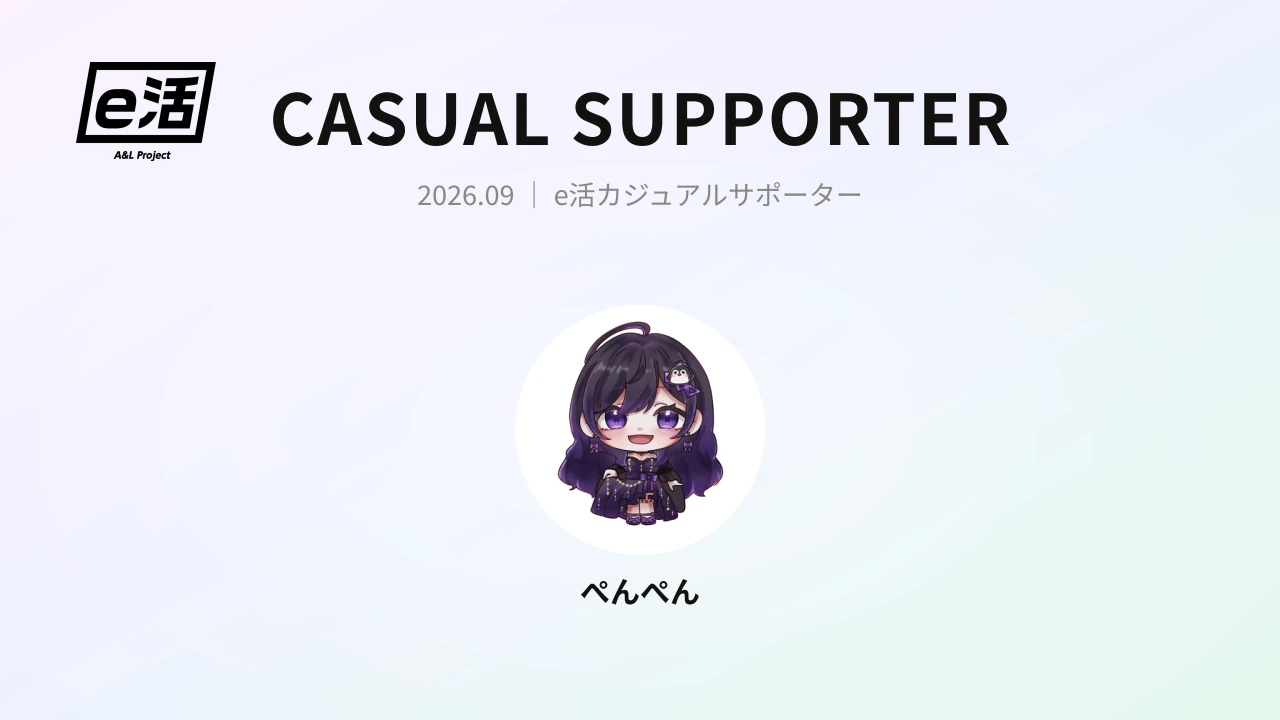
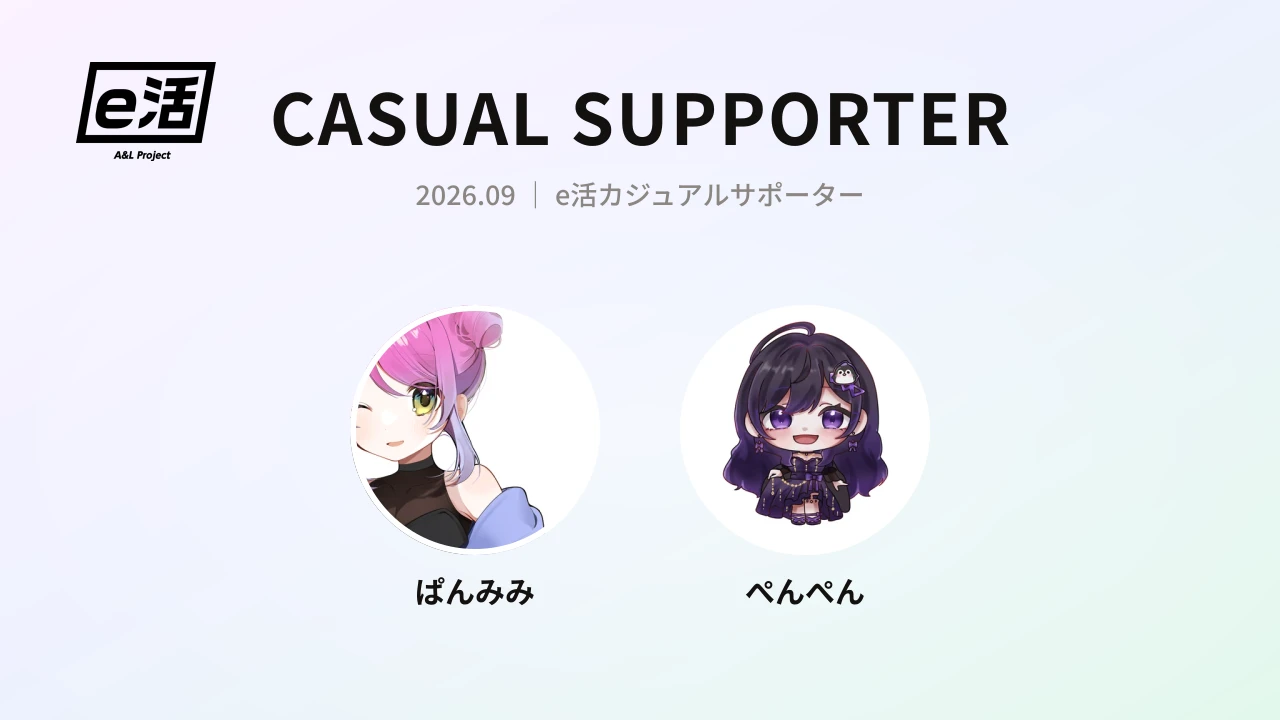
サポーター紹介の記事を1本にまとめる（ぱんみみ・ぺんぺん → 9/28）
9/24 の記事は 9/28 へ移るだけのページに。一覧のカードとXの承認待ちも1本に。

diff --git a/news/supporter-2026-09-24.html b/news/supporter-2026-09-24.html
@@ -2,79 +2,12 @@
 <html lang="ja">
 <head>
   <meta charset="UTF-8" />
-  <meta name="viewport" content="width=device-width, initial-scale=1.0" />
-
-  <title>新しいe活カジュアルサポーターのご紹介（2026.09.24） ｜ e活</title>
-  <meta name="description" content="e活が協賛する大会を、カジュアルに応援してくれる「e活カジュアルサポーター」に新しい仲間が加わりました。" />
-
-  <meta property="og:type" content="article" />
-  <meta property="og:title" content="新しいe活カジュアルサポーターのご紹介（2026.09.24） ｜ e活" />
-  <meta property="og:description" content="e活が協賛する大会を、カジュアルに応援してくれる「e活カジュアルサポーター」に新しい仲間が加わりました。" />
-  <meta property="og:image" content="https://ekatsu-web.pages.dev/assets/img/news/supporter-2026-09-24.webp" />
-
-  <link rel="icon" type="image/png" sizes="32x32" href="/assets/img/favicon-32.png" />
-  <link rel="icon" type="image/png" sizes="192x192" href="/assets/img/favicon-192.png" />
-  <link rel="icon" type="image/png" sizes="512x512" href="/assets/img/favicon-512.png" />
-  <link rel="apple-touch-icon" sizes="180x180" href="/assets/img/favicon-180.png" />
-
-  <link rel="preconnect" href="https://fonts.googleapis.com" />
-  <link rel="preconnect" href="https://fonts.gstatic.com" crossorigin />
-  <link href="https://fonts.googleapis.com/css2?family=Noto+Sans+JP:wght@300;400;500;700&display=swap" rel="stylesheet" />
-
-  <link rel="stylesheet" href="../assets/css/styles.css" />
+  <meta name="robots" content="noindex" />
+  <meta http-equiv="refresh" content="0; url=supporter-2026-09-28.html" />
+  <link rel="canonical" href="https://ekatsu-web.pages.dev/news/supporter-2026-09-28" />
+  <title>新しいe活カジュアルサポーターのご紹介 ｜ e活</title>
 </head>
 <body>
-
-  <span class="side-rail side-rail--left">A&amp;L project 株式会社</span>
-  <span class="side-rail side-rail--right">eスポーツに社会的意義を</span>
-
-  <header class="site-header" id="top">
-    <nav class="nav">
-      <a href="../index.html#message">ご挨拶</a>
-      <a href="../works.html">協賛大会</a>
-      <a href="../reports.html">協賛レポート</a>
-      <a href="../sponsors.html">パートナー企業</a>
-      <a href="../vtuber.html">VTuber</a>
-      <a href="../news.html">お知らせ</a>
-      <a href="../index.html#company">会社情報</a>
-      <a href="../index.html#contact">お問い合わせ</a>
-    </nav>
-    <a href="../index.html" class="brand">
-      <img src="../assets/img/logo.webp" alt="e活 ロゴ" width="120" />
-    </a>
-  </header>
-
-  <main>
-    <article class="article">
-      <header class="article__head reveal">
-        <p class="eyebrow">news</p>
-        <time class="article__date" datetime="2026-09-24">2026.09.24</time>
-        <h1 class="article__title">新しいe活カジュアルサポーターのご紹介（2026.09.24）</h1>
-      </header>
-
-      <div class="article__body reveal">
-        <figure>
-          <img src="../assets/img/news/supporter-2026-09-24.webp" alt="新しいe活カジュアルサポーターのご紹介（2026.09.24）" width="1280" height="720" loading="lazy" />
-        </figure>
-        <p>e活が協賛する大会を、カジュアルに応援してくれる「e活カジュアルサポーター」に新しい仲間が加わりました。</p>
-        <ul>
-          <li><strong>ぱんみみ</strong>｜Call of Dutyを中心に、視聴者さんとコミュニケーションを取りながら楽しく配信して… Call Of Duty。 <a target="_blank" rel="noopener" href="https://x.com/pan_33_mimi">@pan_33_mimi</a></li>
-        </ul>
-        <p>プロフィールの詳細は <a href="../vtuber.html">VTuber一覧ページ</a> からご覧いただけます。応援よろしくお願いいたします！</p>
-        <p><strong>■ e活カジュアルサポーターを随時募集中です！</strong> e活では、共にコミュニティ大会を応援し、シーンを盛り上げてくださる配信者様を継続して募集しております。お気軽にお問い合わせください。</p>
-      </div>
-
-      <div class="article__nav reveal">
-        <a class="btn" href="../news.html">← お知らせ一覧へ戻る</a>
-      </div>
-    </article>
-  </main>
-
-  <footer class="site-footer">
-    <img src="../assets/img/logo.webp" alt="e活 ロゴ" width="90" class="site-footer__logo" />
-    <p class="site-footer__copy">&copy; A&amp;L project 株式会社</p>
-  </footer>
-
-  <script src="../assets/js/main.js"></script>
+  <p>この記事は <a href="supporter-2026-09-28.html">新しいe活カジュアルサポーターのご紹介（2026.09.28）</a> にまとめました。</p>
 </body>
 </html>

diff --git a/tools/_merge_supporter_1003.js b/tools/_merge_supporter_1003.js
@@ -1,0 +1,78 @@
+// ぱんみみさん（9/24の記事）とぺんぺんさん（9/28の記事）を1本の記事にまとめる（2026-10-03 依田「2人とも同じ記事で紹介したいからくっつけて」）
+//   ・残すのは supporter-2026-09-28（2人を載せ直し、見出し画像も2人で作り直す）
+//   ・supporter-2026-09-24 は、開いたら 9/28 の記事へ移るだけのページにする（もう配ったリンクが死なないように）
+//   ・一覧（news.html・index.html）の 9/24 のカードを外す。Xの承認待ちも 9/28 の1本に2人で入れ直す
+//   使い方: node _merge_supporter_1003.js
+const fs = require("fs");
+const path = require("path");
+const ROOT = path.join(__dirname, "..");
+const { publishSupporterNews } = require("./supporter-news");
+
+const people = [
+  { slug: "vt18", name: "ぱんみみ", displayName: "ぱんみみ", bio: "Call of Dutyを中心に、視聴者さんとコミュニケーションを取りながら楽しく配信して… Call Of Duty。", xHandle: "@pan_33_mimi" },
+  { slug: "vt19", name: "ぺんぺん", displayName: "ぺんぺん", bio: "方言をうまく利用して遊びに来てくれた人はみんな友達をテーマに配信しています。 VALORANT / APEX Legends。", xHandle: "@Nissy14843663" },
+];
+const OLD = "supporter-2026-09-24", KEEP = "supporter-2026-09-28";
+
+(async () => {
+  // 1) 9/28 の記事と見出し画像を2人で作り直す（カードと承認待ちは「もうある」で飛ばされる）
+  await publishSupporterNews(people, "2026-09-28");
+
+  // 2) 9/24 の記事は 9/28 へ移るだけのページに
+  fs.writeFileSync(path.join(ROOT, "news", OLD + ".html"), `<!DOCTYPE html>
+<html lang="ja">
+<head>
+  <meta charset="UTF-8" />
+  <meta name="robots" content="noindex" />
+  <meta http-equiv="refresh" content="0; url=${KEEP}.html" />
+  <link rel="canonical" href="https://ekatsu-web.pages.dev/news/${KEEP}" />
+  <title>新しいe活カジュアルサポーターのご紹介 ｜ e活</title>
+</head>
+<body>
+  <p>この記事は <a href="${KEEP}.html">新しいe活カジュアルサポーターのご紹介（2026.09.28）</a> にまとめました。</p>
+</body>
+</html>
+`);
+
+  // 3) 一覧から 9/24 のカードを外す（<a class="news-card…href="news/supporter-2026-09-24.html"> 〜 </a>）
+  for (const f of ["news.html", "index.html"]) {
+    const p = path.join(ROOT, f);
+    let s = fs.readFileSync(p, "utf8");
+    const re = new RegExp('[ \\t]*<a class="news-card[^>]*href="news/' + OLD + '\\.html">[\\s\\S]*?</a>\\r?\\n');
+    if (!re.test(s)) { console.log(`  ${f}: 9/24 のカードが見つからない（もう外れている）`); continue; }
+    s = s.replace(re, "");
+    fs.writeFileSync(p, s);
+    console.log(`  ${f}: 9/24 のカードを外した`);
+  }
+  // トップ（index.html）はお知らせ2件。1件になったら news.html の次の1件を写す
+  {
+    const ip = path.join(ROOT, "index.html");
+    let idx = fs.readFileSync(ip, "utf8");
+    const block = idx.slice(idx.indexOf("<!-- NEWS:START -->"), idx.indexOf("<!-- NEWS:END -->"));
+    const n = (block.match(/<a class="news-card/g) || []).length;
+    if (n < 2) {
+      const news = fs.readFileSync(path.join(ROOT, "news.html"), "utf8");
+      const cards = news.slice(news.indexOf("<!-- NEWS:START -->"), news.indexOf("<!-- NEWS:END -->")).match(/[ \t]*<a class="news-card[\s\S]*?<\/a>\r?\n/g) || [];
+      const next = cards.find(c => !block.includes((c.match(/href="([^"]+)"/) || [])[1]));
+      if (next) {
+        const card = next.replace(' reveal"', '"').replace(/ id="n-[^"]*"/, "");
+        idx = idx.replace("      <!-- NEWS:END -->", card + "      <!-- NEWS:END -->");
+        fs.writeFileSync(ip, idx);
+        console.log("  index.html: 次のお知らせを1件足した（トップは2件）");
+      }
+    }
+  }
+
+  // 4) Xの承認待ち：9/24 を消し、9/28 に2人を入れる
+  const pp = path.join(__dirname, "supporter_news_pending.json");
+  const pend = JSON.parse(fs.readFileSync(pp, "utf8"));
+  pend.articles = pend.articles.filter(a => a.slug !== OLD);
+  const keep = pend.articles.find(a => a.slug === KEEP);
+  if (keep) keep.people = people.map(p => ({ name: p.name, display: p.displayName, x: p.xHandle }));
+  fs.writeFileSync(pp, JSON.stringify(pend, null, 2) + "\n");
+  console.log("  承認待ち: 9/28 の1本に2人で入れ直した");
+
+  // 5) 9/24 の見出し画像は使わなくなるので消す
+  const img = path.join(ROOT, "assets", "img", "news", OLD + ".webp");
+  if (fs.existsSync(img)) { fs.unlinkSync(img); console.log("  9/24 の見出し画像を消した"); }
+})().catch(e => { console.error("ERROR:", e.message); process.exit(1); });

diff --git a/news/supporter-2026-09-28.html b/news/supporter-2026-09-28.html
@@ -5,11 +5,11 @@
   <meta name="viewport" content="width=device-width, initial-scale=1.0" />
 
   <title>新しいe活カジュアルサポーターのご紹介（2026.09.28） ｜ e活</title>
-  <meta name="description" content="e活が協賛する大会を、カジュアルに応援してくれる「e活カジュアルサポーター」に新しい仲間が加わりました。" />
+  <meta name="description" content="e活が協賛する大会を、カジュアルに応援してくれる「e活カジュアルサポーター」に、新しく2名の仲間が加わりました。" />
 
   <meta property="og:type" content="article" />
   <meta property="og:title" content="新しいe活カジュアルサポーターのご紹介（2026.09.28） ｜ e活" />
-  <meta property="og:description" content="e活が協賛する大会を、カジュアルに応援してくれる「e活カジュアルサポーター」に新しい仲間が加わりました。" />
+  <meta property="og:description" content="e活が協賛する大会を、カジュアルに応援してくれる「e活カジュアルサポーター」に、新しく2名の仲間が加わりました。" />
   <meta property="og:image" content="https://ekatsu-web.pages.dev/assets/img/news/supporter-2026-09-28.webp" />
 
   <link rel="icon" type="image/png" sizes="32x32" href="/assets/img/favicon-32.png" />
@@ -56,8 +56,9 @@
         <figure>
           <img src="../assets/img/news/supporter-2026-09-28.webp" alt="新しいe活カジュアルサポーターのご紹介（2026.09.28）" width="1280" height="720" loading="lazy" />
         </figure>
-        <p>e活が協賛する大会を、カジュアルに応援してくれる「e活カジュアルサポーター」に新しい仲間が加わりました。</p>
+        <p>e活が協賛する大会を、カジュアルに応援してくれる「e活カジュアルサポーター」に、新しく2名の仲間が加わりました。</p>
         <ul>
+          <li><strong>ぱんみみ</strong>｜Call of Dutyを中心に、視聴者さんとコミュニケーションを取りながら楽しく配信して… Call Of Duty。 <a target="_blank" rel="noopener" href="https://x.com/pan_33_mimi">@pan_33_mimi</a></li>
           <li><strong>ぺんぺん</strong>｜方言をうまく利用して遊びに来てくれた人はみんな友達をテーマに配信しています。 VALORANT / APEX Legends。 <a target="_blank" rel="noopener" href="https://x.com/Nissy14843663">@Nissy14843663</a></li>
         </ul>
         <p>プロフィールの詳細は <a href="../vtuber.html">VTuber一覧ページ</a> からご覧いただけます。応援よろしくお願いいたします！</p>

diff --git a/index.html b/index.html
@@ -261,11 +261,11 @@
             <p class="news-card__title">新しいe活カジュアルサポーターのご紹介（2026.09.28）</p>
           </div>
         </a>
-        <a class="news-card" href="news/supporter-2026-09-24.html">
-          <img class="news-card__thumb" src="assets/img/news/supporter-2026-09-24.webp" alt="" width="140" height="88" loading="lazy" />
+        <a class="news-card" href="news/supporter-2026-09-13.html">
+          <img class="news-card__thumb" src="assets/img/news/supporter-2026-09-13.webp" alt="" width="140" height="88" loading="lazy" />
           <div class="news-card__body">
-            <time datetime="2026-09-24">2026.09.24</time>
-            <p class="news-card__title">新しいe活カジュアルサポーターのご紹介（2026.09.24）</p>
+            <time datetime="2026-09-13">2026.09.13</time>
+            <p class="news-card__title">新しいe活カジュアルサポーターのご紹介（2026.09.13）</p>
           </div>
         </a>
       <!-- NEWS:END -->

diff --git a/news.html b/news.html
@@ -70,13 +70,6 @@
             <p class="news-card__title">新しいe活カジュアルサポーターのご紹介（2026.09.28）</p>
           </div>
         </a>
-        <a class="news-card reveal" id="n-supporter-2026-09-24" href="news/supporter-2026-09-24.html">
-          <img class="news-card__thumb" src="assets/img/news/supporter-2026-09-24.webp" alt="" width="140" height="88" loading="lazy" />
-          <div class="news-card__body">
-            <time datetime="2026-09-24">2026.09.24</time>
-            <p class="news-card__title">新しいe活カジュアルサポーターのご紹介（2026.09.24）</p>
-          </div>
-        </a>
         <a class="news-card reveal" id="n-supporter-2026-09-13" href="news/supporter-2026-09-13.html">
           <img class="news-card__thumb" src="assets/img/news/supporter-2026-09-13.webp" alt="" width="140" height="88" loading="lazy" />
           <div class="news-card__body">
